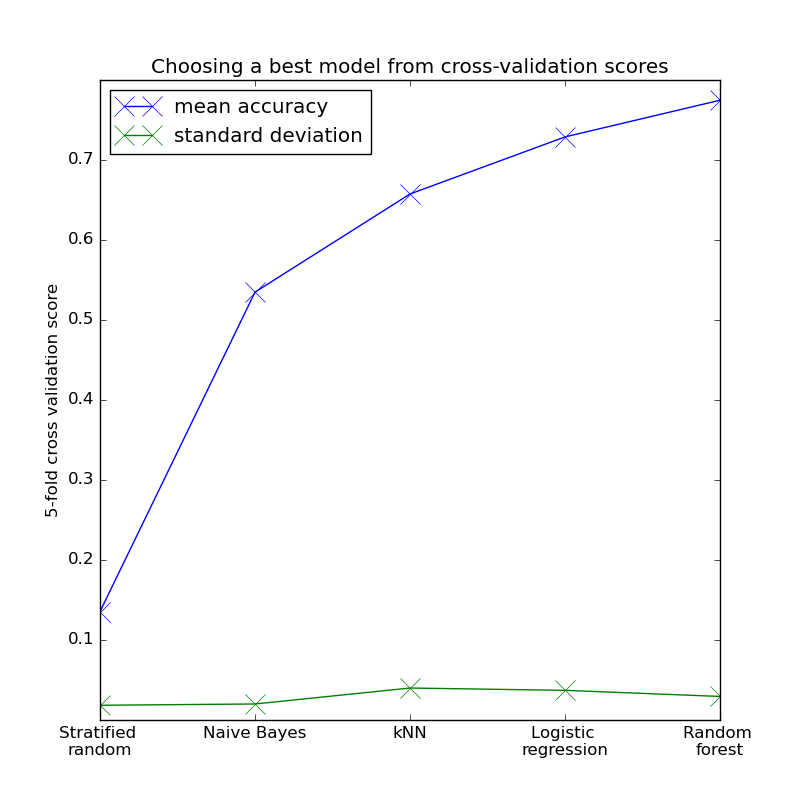
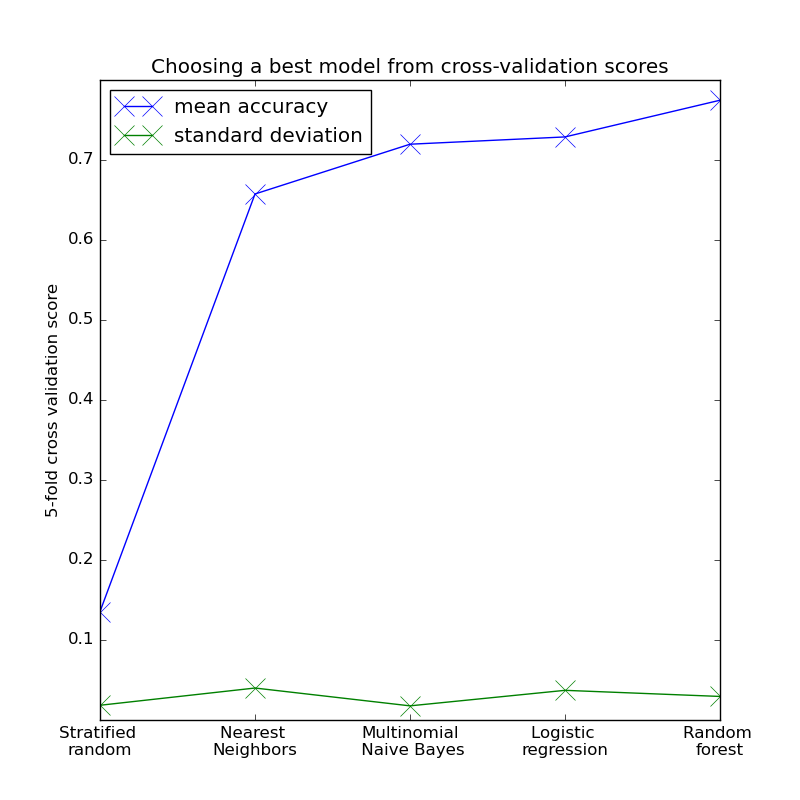
updated NB model

diff --git a/README.md b/README.md
@@ -49,6 +49,8 @@
 ## Prepare
 - A prepare.py file was created with functions to process the README text data and store as a .csv 
 
+<img src="img/classvalues.png" width="150"/>
+
 ## Explore
 - Explore the data scraped from Github trending repositories:
 
